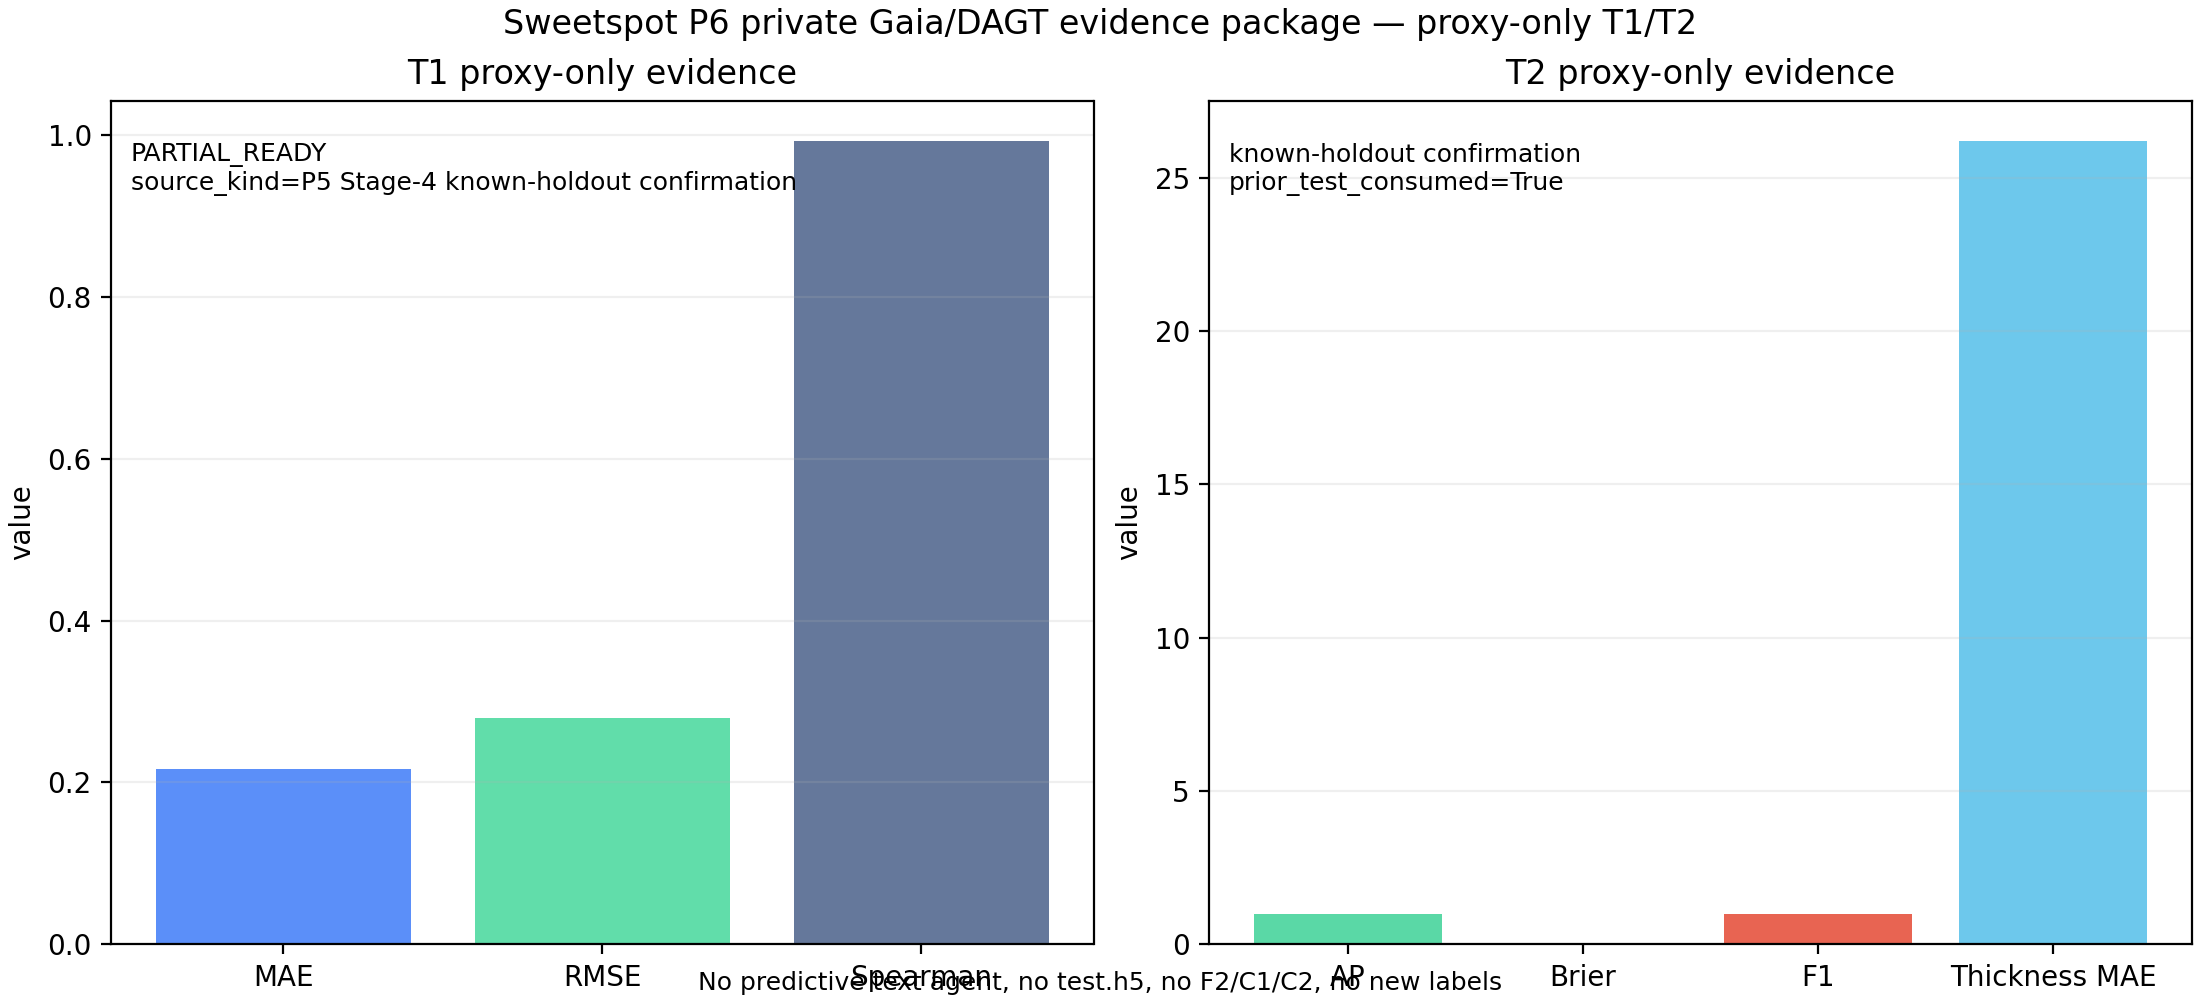
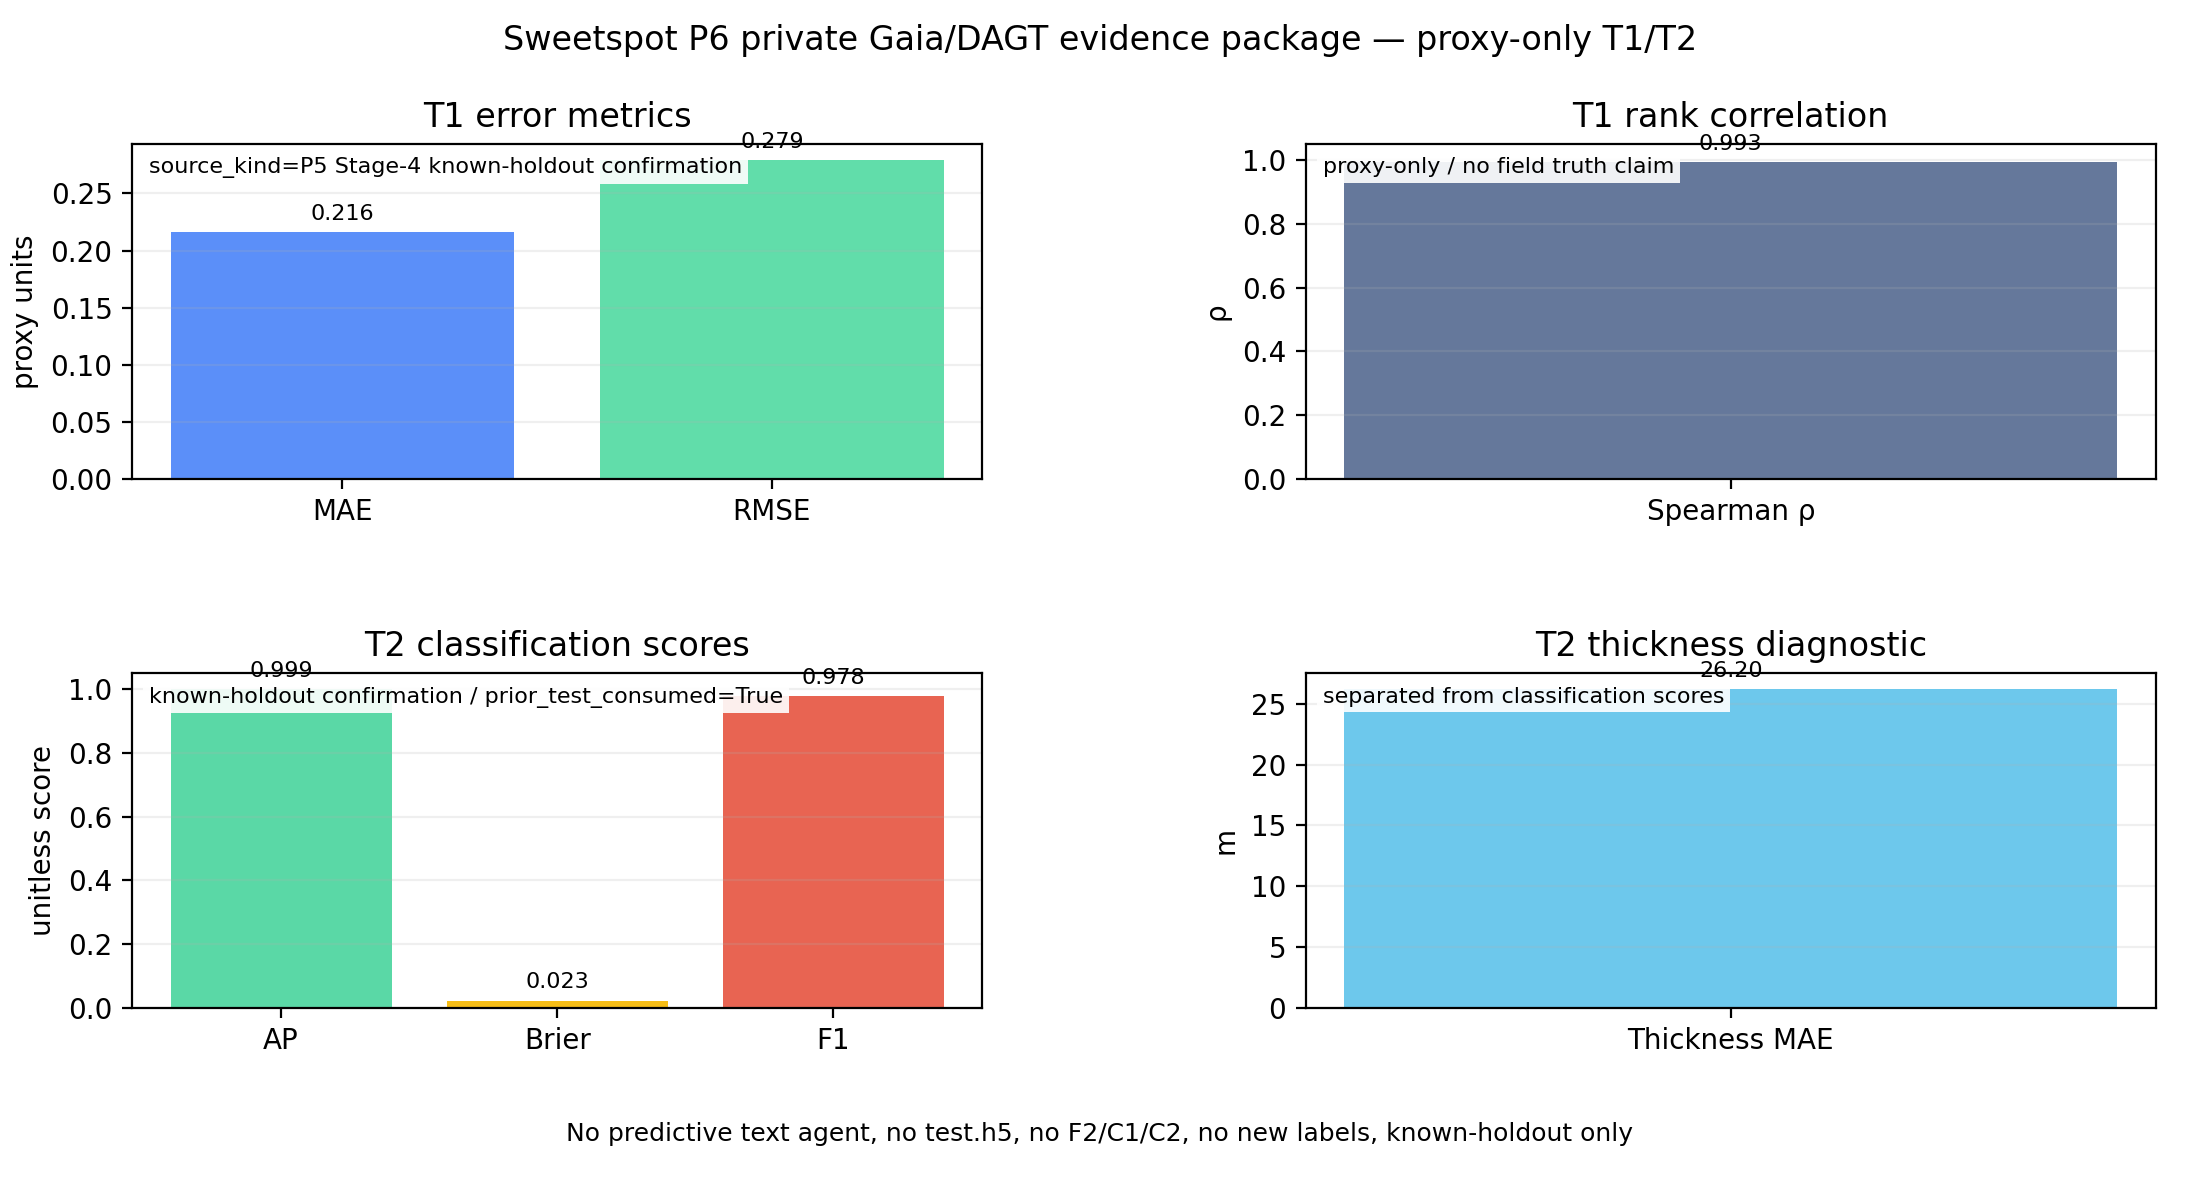
fix(sweetspot): add p6 final_state and figure QA

diff --git a/_models/sweetspot/p6_gaia_dagt.py b/_models/sweetspot/p6_gaia_dagt.py
@@ -276,6 +276,7 @@ def build_bundle() -> dict[str, Any]:
     conclusion = {
         "schema_version": "sweetspot-p6-gaia-dagt-conclusion/v1",
         "status": "PARTIAL_READY",
+        "final_state": "blocked_by_data",
         "approved_states": list(ALLOWED_STATES),
         "target_states": {
             "T1": "PARTIAL_READY",
@@ -315,43 +316,114 @@ def render_proxy_only_figure(bundle: Mapping[str, Any]) -> str:
     matplotlib.use("Agg")
     import matplotlib.pyplot as plt
 
-    fig, axes = plt.subplots(1, 2, figsize=(11, 5), constrained_layout=True)
     stage4 = _stage4_summary()
     t1_metrics = _load_json(P5_STAGE4_DIR / "targets" / "T1" / "metrics.json")["metrics"]
     t2_metrics = _load_json(P5_STAGE4_DIR / "targets" / "T2" / "metrics.json")["metrics"]
+    fig = plt.figure(figsize=(11, 6), dpi=200)
+    gs = fig.add_gridspec(
+        2,
+        2,
+        left=0.06,
+        right=0.98,
+        top=0.88,
+        bottom=0.16,
+        hspace=0.58,
+        wspace=0.38,
+    )
+    ax_t1_err = fig.add_subplot(gs[0, 0])
+    ax_t1_rank = fig.add_subplot(gs[0, 1])
+    ax_t2_class = fig.add_subplot(gs[1, 0])
+    ax_t2_diag = fig.add_subplot(gs[1, 1])
 
-    axes[0].bar(["MAE", "RMSE", "Spearman"], [t1_metrics["mae"], t1_metrics["rmse"], t1_metrics["spearman"]], color=["#5B8FF9", "#61DDAA", "#65789B"])
-    axes[0].set_title("T1 proxy-only evidence")
-    axes[0].set_ylabel("value")
-    axes[0].text(
-        0.02,
-        0.95,
-        f"PARTIAL_READY\nsource_kind={bundle['targets']['T1']['track_spec']['provenance']['source_kind']}",
-        transform=axes[0].transAxes,
-        va="top",
-        fontsize=9,
-    )
-    axes[0].grid(axis="y", alpha=0.2)
+    def _annotate_bars(ax, bars, fmt="{:.3f}") -> None:
+        for bar in bars:
+            height = bar.get_height()
+            ax.annotate(
+                fmt.format(height),
+                xy=(bar.get_x() + bar.get_width() / 2, height),
+                xytext=(0, 3),
+                textcoords="offset points",
+                ha="center",
+                va="bottom",
+                fontsize=8,
+            )
 
-    axes[1].bar(
-        ["AP", "Brier", "F1", "Thickness MAE"],
-        [t2_metrics["average_precision"], t2_metrics["brier"], t2_metrics["f1_at_0_5"], t2_metrics["thickness_diagnostic"]["net_thickness_mae_m"]],
-        color=["#5AD8A6", "#F6BD16", "#E86452", "#6DC8EC"],
-    )
-    axes[1].set_title("T2 proxy-only evidence")
-    axes[1].set_ylabel("value")
-    axes[1].text(
+    t1_error_labels = ["MAE", "RMSE"]
+    t1_error_values = [t1_metrics["mae"], t1_metrics["rmse"]]
+    bars = ax_t1_err.bar(t1_error_labels, t1_error_values, color=["#5B8FF9", "#61DDAA"])
+    _annotate_bars(ax_t1_err, bars)
+    ax_t1_err.set_title("T1 error metrics")
+    ax_t1_err.set_ylabel("proxy units")
+    ax_t1_err.text(
         0.02,
-        0.95,
-        f"known-holdout confirmation\nprior_test_consumed={stage4['prior_test_consumed']}",
-        transform=axes[1].transAxes,
+        0.96,
+        f"source_kind={bundle['targets']['T1']['track_spec']['provenance']['source_kind']}",
+        transform=ax_t1_err.transAxes,
         va="top",
-        fontsize=9,
+        fontsize=8,
+        bbox={"facecolor": "white", "alpha": 0.9, "edgecolor": "none", "pad": 2},
     )
-    axes[1].grid(axis="y", alpha=0.2)
+    ax_t1_err.grid(axis="y", alpha=0.2)
+
+    bars = ax_t1_rank.bar(["Spearman ρ"], [t1_metrics["spearman"]], color=["#65789B"])
+    _annotate_bars(ax_t1_rank, bars)
+    ax_t1_rank.set_title("T1 rank correlation")
+    ax_t1_rank.set_ylabel("ρ")
+    ax_t1_rank.set_ylim(0, 1.05)
+    ax_t1_rank.text(
+        0.02,
+        0.96,
+        "proxy-only / no field truth claim",
+        transform=ax_t1_rank.transAxes,
+        va="top",
+        fontsize=8,
+        bbox={"facecolor": "white", "alpha": 0.9, "edgecolor": "none", "pad": 2},
+    )
+    ax_t1_rank.grid(axis="y", alpha=0.2)
+
+    t2_class_labels = ["AP", "Brier", "F1"]
+    t2_class_values = [t2_metrics["average_precision"], t2_metrics["brier"], t2_metrics["f1_at_0_5"]]
+    bars = ax_t2_class.bar(t2_class_labels, t2_class_values, color=["#5AD8A6", "#F6BD16", "#E86452"])
+    _annotate_bars(ax_t2_class, bars)
+    ax_t2_class.set_title("T2 classification scores")
+    ax_t2_class.set_ylabel("unitless score")
+    ax_t2_class.set_ylim(0, 1.05)
+    ax_t2_class.text(
+        0.02,
+        0.96,
+        f"known-holdout confirmation / prior_test_consumed={stage4['prior_test_consumed']}",
+        transform=ax_t2_class.transAxes,
+        va="top",
+        fontsize=8,
+        bbox={"facecolor": "white", "alpha": 0.9, "edgecolor": "none", "pad": 2},
+    )
+    ax_t2_class.grid(axis="y", alpha=0.2)
+
+    thickness_mae = t2_metrics["thickness_diagnostic"]["net_thickness_mae_m"]
+    bars = ax_t2_diag.bar(["Thickness MAE"], [thickness_mae], color=["#6DC8EC"])
+    _annotate_bars(ax_t2_diag, bars, fmt="{:.2f}")
+    ax_t2_diag.set_title("T2 thickness diagnostic")
+    ax_t2_diag.set_ylabel("m")
+    ax_t2_diag.text(
+        0.02,
+        0.96,
+        "separated from classification scores",
+        transform=ax_t2_diag.transAxes,
+        va="top",
+        fontsize=8,
+        bbox={"facecolor": "white", "alpha": 0.9, "edgecolor": "none", "pad": 2},
+    )
+    ax_t2_diag.grid(axis="y", alpha=0.2)
 
     fig.suptitle("Sweetspot P6 private Gaia/DAGT evidence package — proxy-only T1/T2")
-    fig.text(0.5, 0.01, "No predictive text agent, no test.h5, no F2/C1/C2, no new labels", ha="center", fontsize=9)
+    fig.text(
+        0.5,
+        0.045,
+        "No predictive text agent, no test.h5, no F2/C1/C2, no new labels, known-holdout only",
+        ha="center",
+        va="bottom",
+        fontsize=9,
+    )
     png_path = P6_OUTPUT_DIR / "figures" / "proxy_only_qc.png"
     png_path.parent.mkdir(parents=True, exist_ok=True)
     fig.savefig(png_path, dpi=200)

diff --git a/_pipelines/02_task_datasets/sweetspot/tests/test_sweetspot_p6_gaia_dagt.py b/_pipelines/02_task_datasets/sweetspot/tests/test_sweetspot_p6_gaia_dagt.py
@@ -6,6 +6,8 @@ import json
 import unittest
 from pathlib import Path
 
+from PIL import Image
+
 from _models.gaia_dagt.contracts import canonical_json
 
 private = importlib.import_module("_models.sweetspot.p6_gaia_dagt")
@@ -54,6 +56,7 @@ class SweetspotP6GaiaDAGTTests(unittest.TestCase):
 
     def test_lock_table_and_foundation_status(self) -> None:
         self.assertEqual(self.conclusion["status"], "PARTIAL_READY")
+        self.assertEqual(self.conclusion["final_state"], "blocked_by_data")
         self.assertEqual(self.conclusion["target_states"]["T1"], "PARTIAL_READY")
         self.assertEqual(self.conclusion["target_states"]["T2"], "PARTIAL_READY")
         self.assertEqual(self.conclusion["target_states"]["T5"], "NOT_FEASIBLE")
@@ -68,6 +71,8 @@ class SweetspotP6GaiaDAGTTests(unittest.TestCase):
         self.assertTrue(self.manifest["no_downloads"])
         self.assertTrue(self.manifest["no_test_access"])
         self.assertTrue(FIGURE_PATH.is_file())
+        with Image.open(FIGURE_PATH) as image:
+            self.assertEqual(image.size, (2200, 1200))
         for row in self.manifest["artifacts"]:
             path = Path(row["path"])
             self.assertFalse(path.is_absolute())
@@ -90,6 +95,7 @@ class SweetspotP6GaiaDAGTTests(unittest.TestCase):
 
     def test_bundle_hash_is_stable_and_state_is_allowed(self) -> None:
         self.assertIn(self.bundle["conclusion"]["status"], {"READY", "PARTIAL_READY", "BLOCKED", "NOT_FEASIBLE", "UNAVAILABLE"})
+        self.assertIn(self.bundle["conclusion"]["final_state"], {"verified_gain", "foundation_gain_only", "agent_signal_but_no_baseline_win", "no_verified_gain", "blocked_by_data"})
         payload = dict(self.bundle)
         payload.pop("bundle_sha256", None)
         self.assertEqual(
